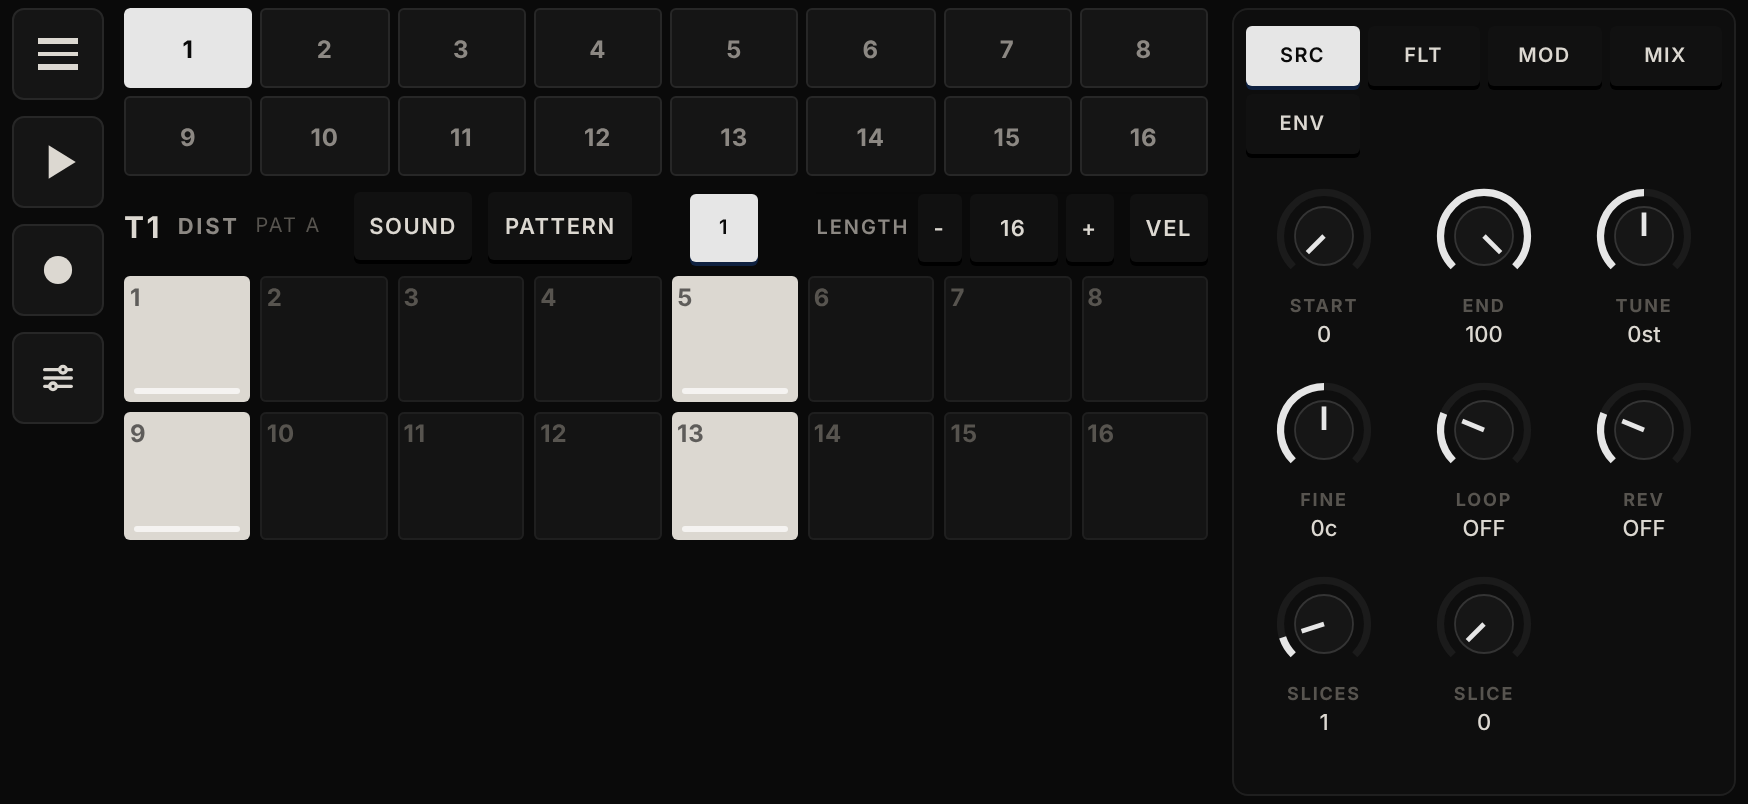
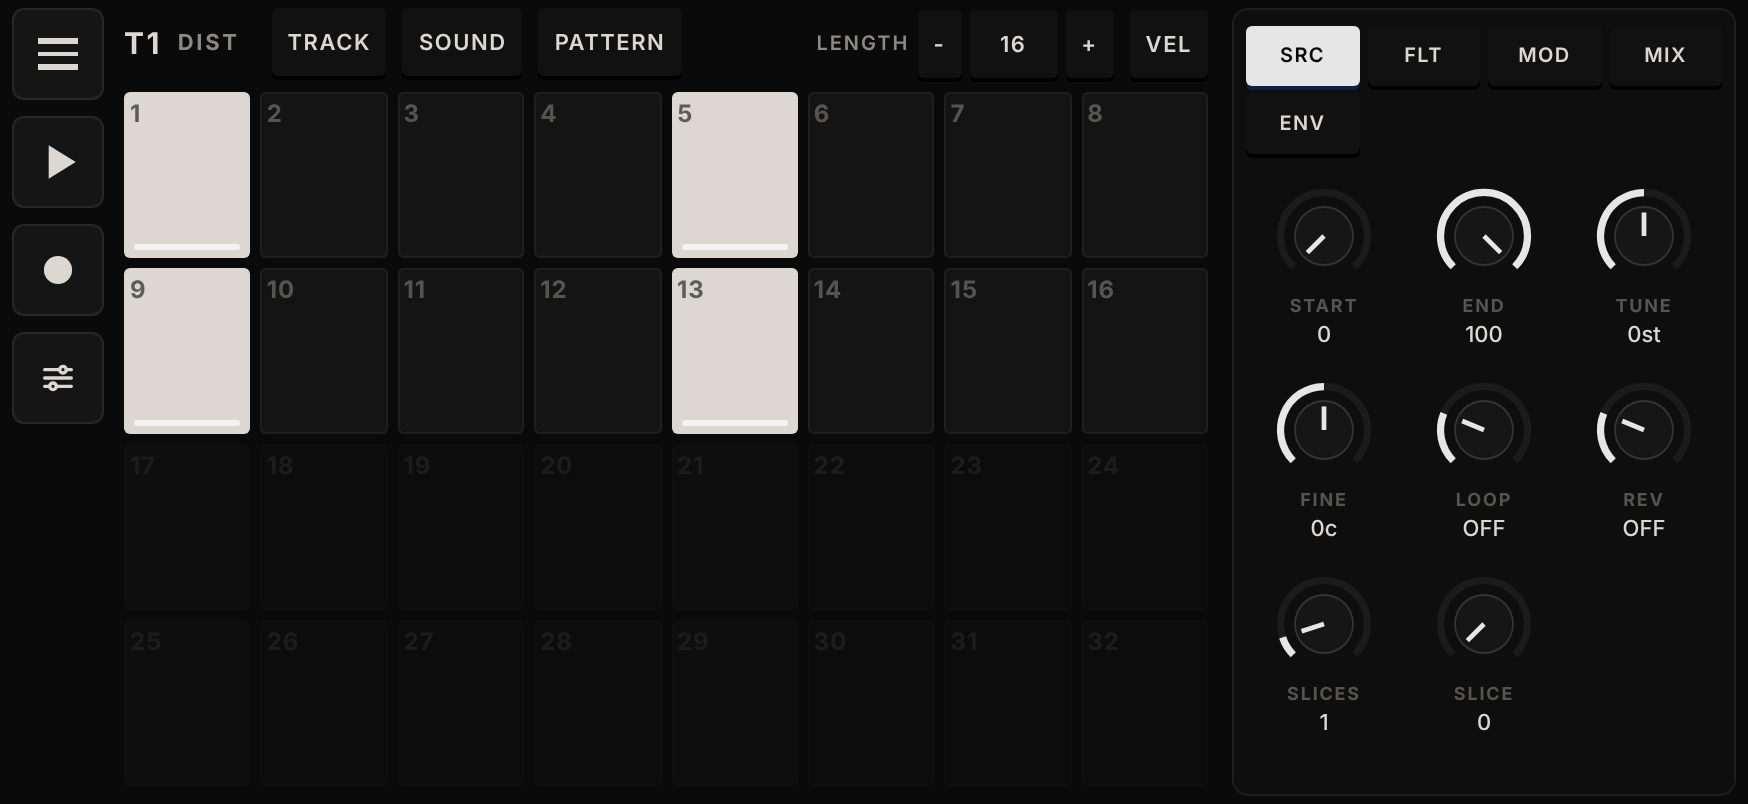
Add files via upload

diff --git a/index.html b/index.html
@@ -873,16 +873,17 @@ body.modcand .ptabs .chip:not(.cand):not(.on){opacity:.45}
   body.fs #s-play .fsenc{flex:1;min-width:210px}
   body.fs #s-play .pad{border-radius:6px}
   /* SEQ: track keys, bar and 2 x 8 squares on the left, encoders on the right */
-  body.fsseq:not(.fspanel) #s-seq .seqtop{--encw:clamp(206px,29vw,252px);--sq:min(calc((100cqw - var(--encw) - 12px - 35px)/8),calc((100cqh - 136px)/2));container-type:size;display:grid;grid-template-columns:auto minmax(0,1fr) auto var(--encw);grid-template-rows:auto auto auto minmax(0,1fr);gap:8px 12px;align-items:center;align-content:start;padding:0;background:none;border:0;box-shadow:none;height:100%;max-height:100%}
-  body.fsseq:not(.fspanel) #s-seq .tkeys{grid-column:1/4;grid-row:1;grid-template-columns:repeat(8,minmax(0,1fr));gap:4px;margin:0}
-  body.fsseq:not(.fspanel) #s-seq .tk{min-height:40px}
-  body.fsseq:not(.fspanel) #s-seq .thead{grid-column:1;grid-row:2;height:32px;margin:0}
-  body.fsseq:not(.fspanel) #s-seq .pager{grid-column:2;grid-row:2;height:32px;margin:0;justify-content:center}
-  body.fsseq:not(.fspanel) #s-seq .lenk{grid-column:3;grid-row:2;height:32px;margin:0}
+  body.fsseq:not(.fspanel) #s-seq .seqtop{--encw:clamp(206px,29vw,252px);--sq:min(calc((100cqw - var(--encw) - 12px - 35px)/8),calc((100cqh - 62px)/4));position:relative;container-type:size;display:grid;grid-template-columns:auto minmax(0,1fr) auto var(--encw);grid-template-rows:auto minmax(0,1fr);gap:8px 12px;align-items:center;align-content:start;padding:0;background:none;border:0;box-shadow:none;height:100%;max-height:100%}
+  body.fsseq:not(.fspanel) #s-seq .tkeys{display:none;position:absolute;left:0;top:42px;width:min(420px,calc(100cqw - var(--encw) - 12px));z-index:6;grid-template-columns:repeat(8,minmax(0,1fr));gap:4px;margin:0;padding:8px;background:#0d0d0dF2;border:1px solid #2a2a2a;border-radius:6px;box-shadow:0 8px 24px #000a}
+body.fsseq:not(.fspanel) #s-seq .tkeys.open{display:grid}
+  body.fsseq:not(.fspanel) #s-seq .tk{min-height:38px}
+  body.fsseq:not(.fspanel) #s-seq .thead{grid-column:1;grid-row:1;height:32px;margin:0}
+  body.fsseq:not(.fspanel) #s-seq .pager{grid-column:2;grid-row:1;height:32px;margin:0;justify-content:center}
+  body.fsseq:not(.fspanel) #s-seq .lenk{grid-column:3;grid-row:1;height:32px;margin:0}
   body.fsseq:not(.fspanel) #s-seq .seqtop .chip.xs{min-height:30px;padding:0 8px}
-  body.fsseq:not(.fspanel) #s-seq .gview.trigs{grid-column:1/4;grid-row:3/5;margin:0;align-self:start;justify-self:start;grid-template-columns:repeat(8,var(--sq));grid-auto-rows:var(--sq);gap:5px}
+  body.fsseq:not(.fspanel) #s-seq .gview.trigs{grid-column:1/4;grid-row:2;margin:0;align-self:start;justify-self:start;grid-template-columns:repeat(8,var(--sq));grid-auto-rows:var(--sq);gap:5px}
   body.fsseq:not(.fspanel) #s-seq .trigs .gc{aspect-ratio:1/1;min-height:0;width:var(--sq);height:var(--sq);padding:3px}
-  body.fsseq:not(.fspanel) #s-seq .fsenc{grid-column:4;grid-row:1/5;align-self:stretch;height:100%}
+  body.fsseq:not(.fspanel) #s-seq .fsenc{grid-column:4;grid-row:1/3;align-self:stretch;height:100%}
   body.fsseq.fspanel .fsenc{display:none}
   /* the drop-down panel: tabs down the left, content in columns */
   body.fsseq #s-seq .seqpanel{top:4px;left:calc(max(6px,env(safe-area-inset-left,0px)) + 56px);right:max(6px,env(safe-area-inset-right,0px));max-height:calc(100vh - var(--trh) - 16px);display:grid;grid-template-columns:86px minmax(0,1fr);gap:0 14px;align-items:start;padding:10px 12px}
@@ -970,8 +971,8 @@ body.modcand .ptabs .chip:not(.cand):not(.on){opacity:.45}
   body.fs.fsopen[data-fst=play] .top, body.fs.fsopen[data-fst=seq] .top{left:calc(max(6px,env(safe-area-inset-left,0px)) + 58px);top:0;bottom:0;padding:8px 10px 60px;width:min(300px,42vw)}
   body.fs.fsopen[data-fst=play] .nav, body.fs.fsopen[data-fst=seq] .nav{left:calc(max(6px,env(safe-area-inset-left,0px)) + 58px);padding-left:6px;width:min(300px,42vw)}
 }
-@media (orientation:landscape) and (min-width:561px) and (max-aspect-ratio:3/2){
-  body.fsseq:not(.fspanel) #s-seq .seqtop{--sh:min(calc((100cqh - 136px)/2),calc(var(--sq)*2.4))}
+@media (orientation:landscape) and (min-width:561px){
+  body.fsseq:not(.fspanel) #s-seq .seqtop{--sh:min(calc((100cqh - 62px)/4),calc(var(--sq)*1.6))}
   body.fsseq:not(.fspanel) #s-seq .gview.trigs{justify-self:stretch;align-self:stretch;grid-template-columns:repeat(8,minmax(0,1fr));grid-auto-rows:var(--sh)}
   body.fsseq:not(.fspanel) #s-seq .trigs .gc{width:auto;height:auto;aspect-ratio:auto}
 }
@@ -1029,6 +1030,12 @@ body.fsseq:not(.fspanel) #s-seq .lenk{justify-self:end}
   body.fsseq:not(.fspanel) #s-seq .thead .chip.xs, body.fsseq:not(.fspanel) #s-seq .lenk .chip.xs{padding-left:8px;padding-right:8px}
 }
 }
+
+.tkbtn{display:none}
+@media (orientation:landscape) and (min-width:561px){body.fsseq:not(.fspanel) #s-seq .tkbtn{display:inline-flex;align-items:center;justify-content:center}}
+body.fsseq:not(.fspanel) #s-seq .thead small{display:none}
+body.fsseq:not(.fspanel) #s-seq .thead span{max-width:90px}
+body.fsseq:not(.fspanel) #s-seq .pager.solo{display:none}
 
 </style>
 </head><body><div id="app"></div>
@@ -2437,23 +2444,25 @@ function closeStepPop(hd){const lk=!!SFN[hd.fi].lock;if(hd.box)hd.box.remove();h
    Tap a trig to switch it. Tap a lit trig to select it. Hold a trig for the quick editor. VEL draws velocities. */
 function seqGrid(){
   const Pj=P(),pats=curPat(),t=trk(),row=pats[U.tr],ti=U.tr,sty=tcStyle(ti);
-  const npg=Math.max(1,Math.ceil(t.len/16));U.gOff=Math.min(U.gOff||0,npg-1);
-  GR.growRow(row,npg*16);const o=U.gOff*16;
-  const keys=h('div',{class:'tkeys'},Pj.tracks.map((tr,k)=>{
-    const b=h('button',{class:'tk'+(k===ti?' sel':'')+(tr.mute?' mute':'')+(tr.solo?' solo':''),text:String(k+1),'aria-label':'Track '+(k+1)+' '+trackLabel(k)+'. Hold for mute and solo',onclick:()=>{if(b._lp){b._lp=false;return}U.tr=k;U.step=-1;vib(6);R.seq()}});
+  const W=isLand()?32:16;/* sideways: 32 big trigs at once, the dim ones past the length extend it when tapped */
+  const npg=Math.max(1,Math.ceil(t.len/W));U.gOff=Math.min(U.gOff||0,npg-1);
+  const o=U.gOff*W;GR.growRow(row,o+W);
+  const keys=h('div',{class:'tkeys'+(U.tkOpen?' open':'')},Pj.tracks.map((tr,k)=>{
+    const b=h('button',{class:'tk'+(k===ti?' sel':'')+(tr.mute?' mute':'')+(tr.solo?' solo':''),text:String(k+1),'aria-label':'Track '+(k+1)+' '+trackLabel(k)+'. Hold for mute and solo',onclick:()=>{if(b._lp){b._lp=false;return}U.tr=k;U.step=-1;U.tkOpen=false;vib(6);R.seq()}});
     b.addEventListener('pointerdown',e=>{b._lp=false;startLP(e,()=>{b._lp=true;vib(18);openPadMenu(k,b)})});return b}));
   const head=h('div',{class:'thead'},h('b',{text:'T'+(ti+1)}),h('span',{text:trackLabel(ti)}),h('small',{text:'PAT '+PATL[Pj.pat]}),h('span',{class:'kspacer'}),
+    h('button',{class:'chip xs tkbtn'+(U.tkOpen?' on':''),text:'TRACK','aria-label':'Choose a track',onclick:()=>{U.tkOpen=!U.tkOpen;vib(6);R.seq()}}),
     h('button',{class:'chip xs',text:'SOUND',onclick:()=>openSndSheet(ti)}),h('button',{class:'chip xs',text:'PATTERN',onclick:openPatSheet}));
   const quiet=t.mute||(Pj.tracks.some(x=>x.solo)&&!t.solo);
-  const g=h('div',{class:'gview trigs',style:'--c:16'});
-  for(let k=0;k<16;k++){
+  const g=h('div',{class:'gview trigs',style:'--c:'+W});
+  for(let k=0;k<W;k++){
     const i=o+k,st=row[i]||GR.newStep();
     const nl=st.on&&st.note?noteLabel(ti,st.note):'',alt=st.on&&((st.cond|0)>0||(st.micro|0)!==0||(st.len||1)>1||(st.rtg|0)>1);
     const b=h('button',{class:'gc'+(k%4===0?' beat':'')+(st.on?' on':'')+(st.lock?' lk':'')+(alt?' alt':'')+(i===U.step?' sel':'')+(i>=t.len?' out':'')+(quiet?' mt':''),style:sty+';--v:'+(st.vel==null?.8:st.vel).toFixed(2),'data-t':ti,'data-i':i,'aria-label':'Step '+(i+1)+(st.on?', velocity '+Math.round((st.vel==null?.8:st.vel)*127):'')},h('i',{text:String(i+1)}),nl?h('small',{text:nl}):null);
     let hold=null,vd=null;
     const vset=v=>{st.vel=clamp(v,.04,1);st.on=1;b.classList.add('on');b.style.setProperty('--v',st.vel.toFixed(2));oled('VEL '+Math.round(st.vel*127),'T'+(ti+1)+' STEP '+(i+1))};
     b.addEventListener('pointerdown',e=>{
-      e.preventDefault();vib(7);ensureAudio();if(i>=t.len)return;
+      e.preventDefault();vib(7);ensureAudio();if(i>=t.len){if(W>16&&i<64){t.len=Math.min(64,Math.ceil((i+1)/16)*16);const s2=row[i];s2.on=1;U.step=i;playNow(ti,s2.note,s2.vel,s2.len);dirty();histCommit();R.seq()}return}
       if(U.gVel){const rc=b.getBoundingClientRect();U.step=i;vset(1-(e.clientY-rc.top)/rc.height);vd={y:e.clientY,v:st.vel};try{b.setPointerCapture(e.pointerId)}catch(x){}return}
       hold={x:e.clientX,y:e.clientY,moved:false,pop:null};try{b.setPointerCapture(e.pointerId)}catch(x){}
       const hd=hold;hd.timer=setTimeout(()=>{if(hold!==hd||hd.moved)return;U.step=i;U.seqTab='step';if(!st.on)st.on=1;b.classList.add('on');vib(16);hd.pop=openStepPop(st,b,hd)},260);
@@ -2471,7 +2480,7 @@ function seqGrid(){
     b.addEventListener('pointercancel',()=>{vd=null;if(hold){clearTimeout(hold.timer);if(hold.pop)closeStepPop(hold);hold=null}});
     g.append(b);
   }
-  const pages=h('div',{class:'row nw pager'},h('span',{class:'plbl',text:'PAGE'}),...Array.from({length:npg},(_,k)=>h('button',{class:'chip xs grow'+(k===U.gOff?' on':''),text:String(k+1),'aria-label':'Steps '+(k*16+1)+' to '+(k*16+16),onclick:()=>{U.gOff=k;U.gFollow=false;R.seq()}})),
+  const pages=h('div',{class:'row nw pager'+(W>16&&npg<2?' solo':'')},h('span',{class:'plbl',text:'PAGE'}),...Array.from({length:npg},(_,k)=>h('button',{class:'chip xs grow'+(k===U.gOff?' on':''),text:W>16?(k*2+1)+'-'+(k*2+2):String(k+1),'aria-label':'Steps '+(k*W+1)+' to '+(k*W+W),onclick:()=>{U.gOff=k;U.gFollow=false;R.seq()}})),
     npg>1?h('button',{class:'chip xs'+(U.gFollow?' on':''),text:'FOLLOW','aria-label':'Follow the playhead',onclick:()=>{U.gFollow=!U.gFollow;R.seq()}}):null);
   const lenRow=h('div',{class:'row nw lenk',style:'gap:4px'},
     h('span',{class:'note lbl',text:'LENGTH'}),
@@ -2491,8 +2500,7 @@ function seqGrid(){
       (cs.micro|0)!==0?h('span',{text:'MICRO '+(cs.micro>0?'+':'')+cs.micro}):null,
       nlk?h('span',{text:nlk+' P-LOCK'+(nlk>1?'S':'')}):null]
     :[h('b',{text:'T'+(ti+1)+' '+trackLabel(ti)}),h('span',{text:'tap a lit trig to see its settings'})]);
-  return h('div',{class:'plate seqtop'},keys,head,g,pages,lenRow);
-}
+  return h('div',{class:'plate seqtop'},keys,head,g,pages,lenRow);}
 R.seq=function(){
   killStepPops();const root=$('#s-seq');root.replaceChildren();const t=trk(),pat=curPat()[U.tr];
   GR.growRow(pat,Math.ceil(t.len/16)*16);

diff --git a/src/ui/080_hold_a_step.js b/src/ui/080_hold_a_step.js
@@ -48,23 +48,25 @@ function closeStepPop(hd){const lk=!!SFN[hd.fi].lock;if(hd.box)hd.box.remove();h
    Tap a trig to switch it. Tap a lit trig to select it. Hold a trig for the quick editor. VEL draws velocities. */
 function seqGrid(){
   const Pj=P(),pats=curPat(),t=trk(),row=pats[U.tr],ti=U.tr,sty=tcStyle(ti);
-  const npg=Math.max(1,Math.ceil(t.len/16));U.gOff=Math.min(U.gOff||0,npg-1);
-  GR.growRow(row,npg*16);const o=U.gOff*16;
-  const keys=h('div',{class:'tkeys'},Pj.tracks.map((tr,k)=>{
-    const b=h('button',{class:'tk'+(k===ti?' sel':'')+(tr.mute?' mute':'')+(tr.solo?' solo':''),text:String(k+1),'aria-label':'Track '+(k+1)+' '+trackLabel(k)+'. Hold for mute and solo',onclick:()=>{if(b._lp){b._lp=false;return}U.tr=k;U.step=-1;vib(6);R.seq()}});
+  const W=isLand()?32:16;/* sideways: 32 big trigs at once, the dim ones past the length extend it when tapped */
+  const npg=Math.max(1,Math.ceil(t.len/W));U.gOff=Math.min(U.gOff||0,npg-1);
+  const o=U.gOff*W;GR.growRow(row,o+W);
+  const keys=h('div',{class:'tkeys'+(U.tkOpen?' open':'')},Pj.tracks.map((tr,k)=>{
+    const b=h('button',{class:'tk'+(k===ti?' sel':'')+(tr.mute?' mute':'')+(tr.solo?' solo':''),text:String(k+1),'aria-label':'Track '+(k+1)+' '+trackLabel(k)+'. Hold for mute and solo',onclick:()=>{if(b._lp){b._lp=false;return}U.tr=k;U.step=-1;U.tkOpen=false;vib(6);R.seq()}});
     b.addEventListener('pointerdown',e=>{b._lp=false;startLP(e,()=>{b._lp=true;vib(18);openPadMenu(k,b)})});return b}));
   const head=h('div',{class:'thead'},h('b',{text:'T'+(ti+1)}),h('span',{text:trackLabel(ti)}),h('small',{text:'PAT '+PATL[Pj.pat]}),h('span',{class:'kspacer'}),
+    h('button',{class:'chip xs tkbtn'+(U.tkOpen?' on':''),text:'TRACK','aria-label':'Choose a track',onclick:()=>{U.tkOpen=!U.tkOpen;vib(6);R.seq()}}),
     h('button',{class:'chip xs',text:'SOUND',onclick:()=>openSndSheet(ti)}),h('button',{class:'chip xs',text:'PATTERN',onclick:openPatSheet}));
   const quiet=t.mute||(Pj.tracks.some(x=>x.solo)&&!t.solo);
-  const g=h('div',{class:'gview trigs',style:'--c:16'});
-  for(let k=0;k<16;k++){
+  const g=h('div',{class:'gview trigs',style:'--c:'+W});
+  for(let k=0;k<W;k++){
     const i=o+k,st=row[i]||GR.newStep();
     const nl=st.on&&st.note?noteLabel(ti,st.note):'',alt=st.on&&((st.cond|0)>0||(st.micro|0)!==0||(st.len||1)>1||(st.rtg|0)>1);
     const b=h('button',{class:'gc'+(k%4===0?' beat':'')+(st.on?' on':'')+(st.lock?' lk':'')+(alt?' alt':'')+(i===U.step?' sel':'')+(i>=t.len?' out':'')+(quiet?' mt':''),style:sty+';--v:'+(st.vel==null?.8:st.vel).toFixed(2),'data-t':ti,'data-i':i,'aria-label':'Step '+(i+1)+(st.on?', velocity '+Math.round((st.vel==null?.8:st.vel)*127):'')},h('i',{text:String(i+1)}),nl?h('small',{text:nl}):null);
     let hold=null,vd=null;
     const vset=v=>{st.vel=clamp(v,.04,1);st.on=1;b.classList.add('on');b.style.setProperty('--v',st.vel.toFixed(2));oled('VEL '+Math.round(st.vel*127),'T'+(ti+1)+' STEP '+(i+1))};
     b.addEventListener('pointerdown',e=>{
-      e.preventDefault();vib(7);ensureAudio();if(i>=t.len)return;
+      e.preventDefault();vib(7);ensureAudio();if(i>=t.len){if(W>16&&i<64){t.len=Math.min(64,Math.ceil((i+1)/16)*16);const s2=row[i];s2.on=1;U.step=i;playNow(ti,s2.note,s2.vel,s2.len);dirty();histCommit();R.seq()}return}
       if(U.gVel){const rc=b.getBoundingClientRect();U.step=i;vset(1-(e.clientY-rc.top)/rc.height);vd={y:e.clientY,v:st.vel};try{b.setPointerCapture(e.pointerId)}catch(x){}return}
       hold={x:e.clientX,y:e.clientY,moved:false,pop:null};try{b.setPointerCapture(e.pointerId)}catch(x){}
       const hd=hold;hd.timer=setTimeout(()=>{if(hold!==hd||hd.moved)return;U.step=i;U.seqTab='step';if(!st.on)st.on=1;b.classList.add('on');vib(16);hd.pop=openStepPop(st,b,hd)},260);
@@ -82,7 +84,7 @@ function seqGrid(){
     b.addEventListener('pointercancel',()=>{vd=null;if(hold){clearTimeout(hold.timer);if(hold.pop)closeStepPop(hold);hold=null}});
     g.append(b);
   }
-  const pages=h('div',{class:'row nw pager'},h('span',{class:'plbl',text:'PAGE'}),...Array.from({length:npg},(_,k)=>h('button',{class:'chip xs grow'+(k===U.gOff?' on':''),text:String(k+1),'aria-label':'Steps '+(k*16+1)+' to '+(k*16+16),onclick:()=>{U.gOff=k;U.gFollow=false;R.seq()}})),
+  const pages=h('div',{class:'row nw pager'+(W>16&&npg<2?' solo':'')},h('span',{class:'plbl',text:'PAGE'}),...Array.from({length:npg},(_,k)=>h('button',{class:'chip xs grow'+(k===U.gOff?' on':''),text:W>16?(k*2+1)+'-'+(k*2+2):String(k+1),'aria-label':'Steps '+(k*W+1)+' to '+(k*W+W),onclick:()=>{U.gOff=k;U.gFollow=false;R.seq()}})),
     npg>1?h('button',{class:'chip xs'+(U.gFollow?' on':''),text:'FOLLOW','aria-label':'Follow the playhead',onclick:()=>{U.gFollow=!U.gFollow;R.seq()}}):null);
   const lenRow=h('div',{class:'row nw lenk',style:'gap:4px'},
     h('span',{class:'note lbl',text:'LENGTH'}),
@@ -102,8 +104,7 @@ function seqGrid(){
       (cs.micro|0)!==0?h('span',{text:'MICRO '+(cs.micro>0?'+':'')+cs.micro}):null,
       nlk?h('span',{text:nlk+' P-LOCK'+(nlk>1?'S':'')}):null]
     :[h('b',{text:'T'+(ti+1)+' '+trackLabel(ti)}),h('span',{text:'tap a lit trig to see its settings'})]);
-  return h('div',{class:'plate seqtop'},keys,head,g,pages,lenRow);
-}
+  return h('div',{class:'plate seqtop'},keys,head,g,pages,lenRow);}
 R.seq=function(){
   killStepPops();const root=$('#s-seq');root.replaceChildren();const t=trk(),pat=curPat()[U.tr];
   GR.growRow(pat,Math.ceil(t.len/16)*16);

diff --git a/src/style.css b/src/style.css
@@ -865,16 +865,17 @@ body.modcand .ptabs .chip:not(.cand):not(.on){opacity:.45}
   body.fs #s-play .fsenc{flex:1;min-width:210px}
   body.fs #s-play .pad{border-radius:6px}
   /* SEQ: track keys, bar and 2 x 8 squares on the left, encoders on the right */
-  body.fsseq:not(.fspanel) #s-seq .seqtop{--encw:clamp(206px,29vw,252px);--sq:min(calc((100cqw - var(--encw) - 12px - 35px)/8),calc((100cqh - 136px)/2));container-type:size;display:grid;grid-template-columns:auto minmax(0,1fr) auto var(--encw);grid-template-rows:auto auto auto minmax(0,1fr);gap:8px 12px;align-items:center;align-content:start;padding:0;background:none;border:0;box-shadow:none;height:100%;max-height:100%}
-  body.fsseq:not(.fspanel) #s-seq .tkeys{grid-column:1/4;grid-row:1;grid-template-columns:repeat(8,minmax(0,1fr));gap:4px;margin:0}
-  body.fsseq:not(.fspanel) #s-seq .tk{min-height:40px}
-  body.fsseq:not(.fspanel) #s-seq .thead{grid-column:1;grid-row:2;height:32px;margin:0}
-  body.fsseq:not(.fspanel) #s-seq .pager{grid-column:2;grid-row:2;height:32px;margin:0;justify-content:center}
-  body.fsseq:not(.fspanel) #s-seq .lenk{grid-column:3;grid-row:2;height:32px;margin:0}
+  body.fsseq:not(.fspanel) #s-seq .seqtop{--encw:clamp(206px,29vw,252px);--sq:min(calc((100cqw - var(--encw) - 12px - 35px)/8),calc((100cqh - 62px)/4));position:relative;container-type:size;display:grid;grid-template-columns:auto minmax(0,1fr) auto var(--encw);grid-template-rows:auto minmax(0,1fr);gap:8px 12px;align-items:center;align-content:start;padding:0;background:none;border:0;box-shadow:none;height:100%;max-height:100%}
+  body.fsseq:not(.fspanel) #s-seq .tkeys{display:none;position:absolute;left:0;top:42px;width:min(420px,calc(100cqw - var(--encw) - 12px));z-index:6;grid-template-columns:repeat(8,minmax(0,1fr));gap:4px;margin:0;padding:8px;background:#0d0d0dF2;border:1px solid #2a2a2a;border-radius:6px;box-shadow:0 8px 24px #000a}
+body.fsseq:not(.fspanel) #s-seq .tkeys.open{display:grid}
+  body.fsseq:not(.fspanel) #s-seq .tk{min-height:38px}
+  body.fsseq:not(.fspanel) #s-seq .thead{grid-column:1;grid-row:1;height:32px;margin:0}
+  body.fsseq:not(.fspanel) #s-seq .pager{grid-column:2;grid-row:1;height:32px;margin:0;justify-content:center}
+  body.fsseq:not(.fspanel) #s-seq .lenk{grid-column:3;grid-row:1;height:32px;margin:0}
   body.fsseq:not(.fspanel) #s-seq .seqtop .chip.xs{min-height:30px;padding:0 8px}
-  body.fsseq:not(.fspanel) #s-seq .gview.trigs{grid-column:1/4;grid-row:3/5;margin:0;align-self:start;justify-self:start;grid-template-columns:repeat(8,var(--sq));grid-auto-rows:var(--sq);gap:5px}
+  body.fsseq:not(.fspanel) #s-seq .gview.trigs{grid-column:1/4;grid-row:2;margin:0;align-self:start;justify-self:start;grid-template-columns:repeat(8,var(--sq));grid-auto-rows:var(--sq);gap:5px}
   body.fsseq:not(.fspanel) #s-seq .trigs .gc{aspect-ratio:1/1;min-height:0;width:var(--sq);height:var(--sq);padding:3px}
-  body.fsseq:not(.fspanel) #s-seq .fsenc{grid-column:4;grid-row:1/5;align-self:stretch;height:100%}
+  body.fsseq:not(.fspanel) #s-seq .fsenc{grid-column:4;grid-row:1/3;align-self:stretch;height:100%}
   body.fsseq.fspanel .fsenc{display:none}
   /* the drop-down panel: tabs down the left, content in columns */
   body.fsseq #s-seq .seqpanel{top:4px;left:calc(max(6px,env(safe-area-inset-left,0px)) + 56px);right:max(6px,env(safe-area-inset-right,0px));max-height:calc(100vh - var(--trh) - 16px);display:grid;grid-template-columns:86px minmax(0,1fr);gap:0 14px;align-items:start;padding:10px 12px}
@@ -962,8 +963,8 @@ body.modcand .ptabs .chip:not(.cand):not(.on){opacity:.45}
   body.fs.fsopen[data-fst=play] .top, body.fs.fsopen[data-fst=seq] .top{left:calc(max(6px,env(safe-area-inset-left,0px)) + 58px);top:0;bottom:0;padding:8px 10px 60px;width:min(300px,42vw)}
   body.fs.fsopen[data-fst=play] .nav, body.fs.fsopen[data-fst=seq] .nav{left:calc(max(6px,env(safe-area-inset-left,0px)) + 58px);padding-left:6px;width:min(300px,42vw)}
 }
-@media (orientation:landscape) and (min-width:561px) and (max-aspect-ratio:3/2){
-  body.fsseq:not(.fspanel) #s-seq .seqtop{--sh:min(calc((100cqh - 136px)/2),calc(var(--sq)*2.4))}
+@media (orientation:landscape) and (min-width:561px){
+  body.fsseq:not(.fspanel) #s-seq .seqtop{--sh:min(calc((100cqh - 62px)/4),calc(var(--sq)*1.6))}
   body.fsseq:not(.fspanel) #s-seq .gview.trigs{justify-self:stretch;align-self:stretch;grid-template-columns:repeat(8,minmax(0,1fr));grid-auto-rows:var(--sh)}
   body.fsseq:not(.fspanel) #s-seq .trigs .gc{width:auto;height:auto;aspect-ratio:auto}
 }
@@ -1021,3 +1022,9 @@ body.fsseq:not(.fspanel) #s-seq .lenk{justify-self:end}
   body.fsseq:not(.fspanel) #s-seq .thead .chip.xs, body.fsseq:not(.fspanel) #s-seq .lenk .chip.xs{padding-left:8px;padding-right:8px}
 }
 }
+
+.tkbtn{display:none}
+@media (orientation:landscape) and (min-width:561px){body.fsseq:not(.fspanel) #s-seq .tkbtn{display:inline-flex;align-items:center;justify-content:center}}
+body.fsseq:not(.fspanel) #s-seq .thead small{display:none}
+body.fsseq:not(.fspanel) #s-seq .thead span{max-width:90px}
+body.fsseq:not(.fspanel) #s-seq .pager.solo{display:none}

diff --git a/sw.js b/sw.js
@@ -1,5 +1,5 @@
 /* ELEPHANT service worker: cache first, so the app opens offline after the first visit */
-const C='elephant-v22';
+const C='elephant-v24';
 self.addEventListener('install',e=>{self.skipWaiting();e.waitUntil(caches.open(C).then(c=>c.addAll(['./','./index.html']).catch(()=>{})))});
 self.addEventListener('activate',e=>{e.waitUntil(caches.keys().then(k=>Promise.all(k.filter(x=>x!==C).map(x=>caches.delete(x)))).then(()=>self.clients.claim()))});
 self.addEventListener('fetch',e=>{

diff --git a/test/t10_wave_gestures.py b/test/t10_wave_gestures.py
@@ -27,12 +27,13 @@ ns=r.ev("[1,2,4,8,16][dval(GRUI.trk().params[6],5)]") if False else None
 r.pg.mouse.click(bb['x']+bb['width']*.9,y);r.pg.wait_for_timeout(100)
 check('tapping a slice selects it',r.ev("GRUI.trk().params[7]")>.6,r.ev("GRUI.trk().params[7]"))
 r.close()
-# fullscreen landscape: MIX faders fill the height, SEQ trigs are square
+# fullscreen landscape: MIX faders fill the height, SEQ trigs are big
 r=Run(874,402,touch=True);r.ev("GR.loadPreset(0);GRUI.renderTab()");r.go('mix')
 H=r.ev("document.querySelector('#s-mix .fader').getBoundingClientRect().height")
 check('fullscreen MIX faders are tall',H>150,H)
 r.go('seq');g=r.ev("(()=>{const a=document.querySelector('#s-seq .trigs .gc').getBoundingClientRect();return [a.width,a.height]})()")
-check('fullscreen SEQ trigs are square',abs(g[0]-g[1])<1.5 and g[0]>50,g)
+n=r.ev("document.querySelectorAll('#s-seq .trigs .gc').length")
+check('fullscreen SEQ shows 32 big trigs',n==32 and g[0]>50 and g[1]>50,[n]+g)
 ph=r.ev("document.querySelector('#s-seq .pager .chip').getBoundingClientRect().width")
 check('PAGE button is small',ph<80,ph)
 r.close();done()

diff --git a/README.md b/README.md
@@ -4,8 +4,6 @@ A pocket sampler groovebox that runs in the browser, sibling of the BEHEMOTH syn
 
 **Try it:** open the GitHub Pages link of this repo on your phone, then *Share → Add to Home Screen* for a full-screen app.
 
-▶ Listen: https://shoogaze.github.io/elephant-sequencer/
-
 ## Screenshots
 
 Phone held sideways (the main way to play), a phone upright, and a tablet. Shots are taken from the built `index.html` with the WAREHOUSE preset loaded.
@@ -28,6 +26,10 @@ Phone held sideways (the main way to play), a phone upright, and a tablet. Shots
 <img src="screenshots/10-mixer-portrait.png" width="19%" alt="Mixer, portrait">
 <img src="screenshots/11-fx-portrait.png" width="19%" alt="FX, portrait">
 </p>
+
+![Sequencer on a tablet](screenshots/06-sequencer-tablet.png)
+
+*Tablet in landscape: the same layout scaled up, the steps fill the height.*
 
 The screenshots are made with Chromium at 2x (`python3 tools/shots.py`), without the web fonts, so the real app looks slightly different on a device that loads Hanken Grotesk and DM Mono.
 
